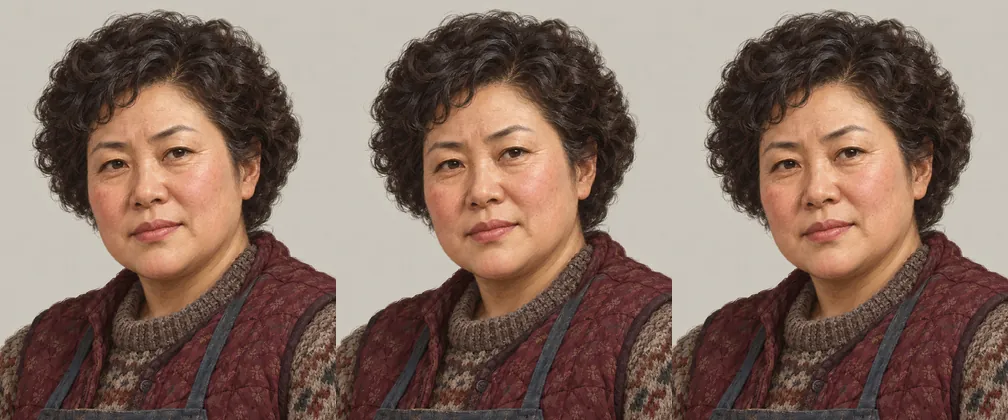
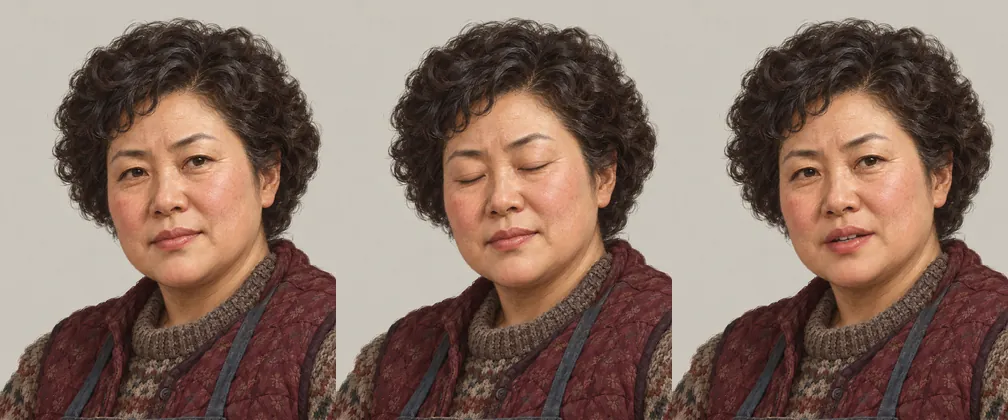
Faces blink and talk in CASE 11; 함 사장 shakes and breaks, and 길·진·우 flinch when their stories crack

diff --git a/img/manifest.js b/img/manifest.js
@@ -275,13 +275,13 @@ window.MG.images = {
   "c11/cut_c": "img/c11/cut_c.webp?v=9cd82dd0",
   "c11/cut_d": "img/c11/cut_d.webp?v=b538435c",
   "c11/cut_ev": "img/c11/cut_ev.webp?v=e7bea03c",
-  "c11/face_p_gil": "img/c11/face_p_gil.webp?v=cbc3d7d0",
-  "c11/face_p_ham": "img/c11/face_p_ham.webp?v=8a54c4f7",
-  "c11/face_p_han": "img/c11/face_p_han.webp?v=9d681268",
-  "c11/face_p_jin": "img/c11/face_p_jin.webp?v=d8745fca",
-  "c11/face_p_park": "img/c11/face_p_park.webp?v=9ec72b1c",
-  "c11/face_p_woo": "img/c11/face_p_woo.webp?v=a05cef5d",
-  "c11/face_p_yeom": "img/c11/face_p_yeom.webp?v=88c17fb9",
+  "c11/face_p_gil": "img/c11/face_p_gil.webp?v=52f35e7f",
+  "c11/face_p_ham": "img/c11/face_p_ham.webp?v=d1ad478d",
+  "c11/face_p_han": "img/c11/face_p_han.webp?v=38f89306",
+  "c11/face_p_jin": "img/c11/face_p_jin.webp?v=237d5111",
+  "c11/face_p_park": "img/c11/face_p_park.webp?v=3520f658",
+  "c11/face_p_woo": "img/c11/face_p_woo.webp?v=d527ca81",
+  "c11/face_p_yeom": "img/c11/face_p_yeom.webp?v=02814244",
   "c11/gauge": "img/c11/gauge.webp?v=9bf24e9f",
   "c11/items_table": "img/c11/items_table.webp?v=99c16e4b",
   "c11/knot_ev": "img/c11/knot_ev.webp?v=69b5fa66",
@@ -356,7 +356,7 @@ window.MG.images = {
   "c14/cover": "img/c14/cover.webp?v=6d424663",
   "c14/cover_bg": "img/c14/cover_bg.webp?v=7ef5560e",
   "c14/cover_s": "img/c14/cover_s.webp?v=adbea913",
-  "c14/face_p_changhoon": "img/c14/face_p_changhoon.webp?v=b11d9d3d",
+  "c14/face_p_changhoon": "img/c14/face_p_changhoon.webp?v=80153c07",
   "c14/face_p_eunju": "img/c14/face_p_eunju.webp?v=8a9e5cef",
   "c14/face_p_jeongrye": "img/c14/face_p_jeongrye.webp?v=4e78726f",
   "c14/face_p_oksun": "img/c14/face_p_oksun.webp?v=0ac960ae",
@@ -418,4 +418,4 @@ window.MG.images = {
   "_global/paper": "img/_global/paper.webp?v=da0f1de2",
   "_global/warn": "img/_global/warn.webp?v=1bc88cad"
 };
-window.MG.imageSize = {"c00/award":[1280,854],"c00/booth":[1280,960],"c00/bridge":[1280,960],"c00/cake":[1280,854],"c00/cat":[1280,960],"c00/cover":[1280,960],"c00/cover_bg":[640,480],"c00/cover_s":[260,196],"c00/cup":[1280,854],"c00/desk":[1280,960],"c00/doorbag":[1280,960],"c00/face_p_dohyun":[1008,420],"c00/face_p_jaehee":[1008,1260],"c00/face_p_manager":[1008,420],"c00/face_p_minji":[1008,420],"c00/face_p_neighbor":[1008,420],"c00/psd_preview":[1200,840],"c00/sketch":[1280,854],"c01/b_register":[1280,854],"c01/cover":[1280,960],"c01/cover_bg":[640,480],"c01/cover_s":[260,196],"c01/face_p_bill":[1008,840],"c01/face_p_croft":[1008,1260],"c01/face_p_dill":[1008,420],"c01/face_p_hannah":[1008,420],"c01/face_p_peggy":[1008,420],"c01/face_p_quarrell":[1008,420],"c01/face_p_vane":[1008,840],"c01/l_letter":[1280,960],"c01/l_postcard":[1280,960],"c01/l_slip":[1280,854],"c01/map":[1280,1170],"c01/patrollog":[1280,960],"c01/q_lamp":[1280,854],"c01/q_thread":[1280,1072],"c01/roseletter":[1280,962],"c01/s_candle":[1280,854],"c01/s_court":[1280,854],"c01/s_fundbox":[1280,854],"c01/s_patrol":[1280,854],"c01/s_sailor":[1280,854],"c01/s_tanners":[1280,854],"c02/attic":[1280,854],"c02/autopsy_table":[1280,960],"c02/barn_floor":[1280,960],"c02/calendar":[1280,1170],"c02/cover":[1280,854],"c02/cover_bg":[640,428],"c02/cover_s":[260,174],"c02/face_p_gerstl":[1008,420],"c02/face_p_hubmann":[1008,420],"c02/face_p_knauer":[1008,1260],"c02/face_p_magdalena":[1008,420],"c02/face_p_pfaenzl":[1008,840],"c02/face_p_resl":[1008,420],"c02/face_p_rottmayr":[1008,420],"c02/farm":[1280,854],"c02/hausbuch":[1280,854],"c02/hut":[1280,854],"c02/kasten":[1280,1170],"c02/kitchen":[1128,854],"c02/lock":[1280,1072],"c02/mailbox":[1280,854],"c02/plan":[1280,854],"c02/sk_kitchen":[1280,854],"c02/sk_stall":[1280,854],"c02/sledge":[1280,406],"c02/stall":[1280,854],"c02/suitcase":[1280,960],"c03/b_cafe":[1280,854],"c03/b_sewing":[1280,854],"c03/cover":[1280,1066],"c03/cover_bg":[640,534],"c03/cover_s":[260,216],"c03/face_p_baek":[1008,420],"c03/face_p_choi":[1008,420],"c03/face_p_gil":[1008,420],"c03/face_p_kwak":[1008,420],"c03/face_p_park":[1008,420],"c03/face_p_seo":[1008,1260],"c03/map":[1222,1288],"c03/n_boheol":[1280,1072],"c03/n_jodk":[1280,854],"c03/n_singer":[1280,1072],"c03/p_radio":[1280,960],"c03/p_safe":[1280,1170],"c03/p_shop":[1280,854],"c03/p_well":[1280,854],"c04/bike":[1280,854],"c04/bikephoto":[1280,800],"c04/boxes":[1280,960],"c04/coat":[1280,962],"c04/cover":[1280,854],"c04/cover_bg":[640,428],"c04/cover_s":[260,174],"c04/face_p_genzo":[1008,420],"c04/face_p_irie":[1008,1260],"c04/face_p_kitamura":[1008,840],"c04/face_p_okabe":[1008,840],"c04/face_p_ono":[1008,420],"c04/face_p_shimada":[1008,420],"c04/flare":[1280,960],"c04/kurotaki":[1280,854],"c04/l3_back":[1280,960],"c04/letter":[1280,854],"c04/map":[1280,854],"c04/matchbox":[1280,960],"c04/montage":[1030,1182],"c04/scene":[1280,720],"c04/siteboard":[1280,960],"c04/wind":[1280,960],"c05/cedar":[1280,720],"c05/cedar_car":[1280,960],"c05/cipherimg":[1280,960],"c05/cover":[1280,960],"c05/cover_bg":[640,480],"c05/cover_s":[260,196],"c05/depot":[1280,720],"c05/env_four":[1280,854],"c05/env_ref":[1280,854],"c05/env_sheriff":[1280,720],"c05/env_star":[1280,854],"c05/env_typed":[1280,854],"c05/face_p_brennan":[1008,1260],"c05/face_p_coyle":[1008,420],"c05/face_p_delgado":[1008,420],"c05/face_p_dugan":[1008,420],"c05/face_p_lowell":[1008,420],"c05/face_p_osgood":[1008,420],"c05/face_p_pell":[1008,840],"c05/letter1":[1280,854],"c05/lighthouse":[1280,720],"c05/masonhill":[1280,720],"c05/mh_car":[1280,960],"c05/payphone":[1086,1448],"c05/sketch":[1086,1448],"c05/truck":[1280,720],"c05/typed":[1280,960],"c06/autopsy_sheet":[1280,958],"c06/autopsy_sheet_mild":[1280,958],"c06/bags_table":[1280,854],"c06/cover":[1280,854],"c06/cover_bg":[640,428],"c06/cover_s":[260,174],"c06/face_p_brate":[1008,1260],"c06/face_p_kari":[1008,420],"c06/face_p_per":[1008,420],"c06/face_p_randi":[1008,420],"c06/face_p_remmert":[1008,840],"c06/face_p_solveig":[1008,420],"c06/face_p_taxi":[1008,420],"c06/fuel":[1280,854],"c06/harbor":[1280,854],"c06/hytte":[1280,854],"c06/regcard":[1280,960],"c06/scene_hollow":[1280,960],"c06/scene_hollow_mild":[1280,960],"c06/ship":[1280,854],"c06/station":[1280,854],"c06/stern":[1280,854],"c06/suitcases":[1280,498],"c06/thermos":[1280,854],"c06/touristmap":[1280,960],"c06/valley":[1280,960],"c07/cover":[1280,854],"c07/cover_bg":[640,428],"c07/cover_s":[260,174],"c07/face_p_granny":[1008,420],"c07/face_p_madam":[1008,420],"c07/face_p_mansik":[1008,840],"c07/face_p_no":[1008,840],"c07/face_p_operator":[1008,420],"c07/face_p_seok":[1008,1260],"c07/face_p_wife":[1008,840],"c07/handbag":[1280,960],"c07/house":[1280,960],"c07/ledger_page":[1280,960],"c07/news_car":[1280,854],"c07/photo_car":[1280,960],"c07/photo_seat":[1280,854],"c07/scene_map":[1280,854],"c07/seokcar":[1280,854],"c07/shop":[1280,854],"c07/songwol_gate":[1280,854],"c07/switchboard":[1280,960],"c07/tv":[1254,1254],"c08/booth":[1280,854],"c08/church":[1086,1448],"c08/cover":[1280,854],"c08/cover_bg":[640,428],"c08/cover_s":[260,174],"c08/face_p_driver":[1008,420],"c08/face_p_father":[1008,420],"c08/face_p_foreman":[1008,840],"c08/face_p_mother":[1008,420],"c08/face_p_shop":[1008,420],"c08/face_p_tak":[1008,1260],"c08/face_p_tutor":[1008,840],"c08/flyer":[1280,854],"c08/keys":[1280,960],"c08/map":[1280,854],"c08/montage":[1086,1448],"c08/montage_print":[1086,1448],"c08/news_site":[1280,960],"c08/note_paper":[1280,854],"c08/rail":[1280,854],"c08/ransom_bag":[1280,854],"c08/sg_call":[1200,576],"c08/sg_han":[1200,576],"c08/sg_jang":[1200,576],"c08/sg_tak":[1200,576],"c08/sg_yeom":[1200,576],"c08/shop_ledger":[1280,960],"c08/solmaru":[1280,960],"c08/warehouse":[1280,960],"c09/busstop":[1280,854],"c09/cctv":[1056,720],"c09/courier_room":[1280,854],"c09/cover":[1280,960],"c09/cover_bg":[640,480],"c09/cover_s":[260,196],"c09/door":[1280,960],"c09/face_p_courier":[1008,840],"c09/face_p_eunbi":[1008,420],"c09/face_p_jinwoo":[1008,420],"c09/face_p_realtor":[1008,420],"c09/face_p_sora":[1008,420],"c09/face_p_tak":[1008,1260],"c09/frames":[1280,960],"c09/haeun_photo":[1280,854],"c09/house204":[1280,960],"c09/house217":[1280,960],"c09/house219":[1280,854],"c09/house226":[1280,854],"c09/house230":[1280,960],"c09/map":[1280,854],"c09/mt_photo":[1280,854],"c09/ph217":[1280,960],"c09/ph219":[1280,960],"c09/pyogu":[1280,960],"c09/roof":[1280,854],"c09/sora_photo":[1280,960],"c10/cam_a":[1280,854],"c10/cam_b":[1280,720],"c10/cam_pier":[1280,960],"c10/cam_store":[1280,960],"c10/cam_taxi":[1280,720],"c10/cap":[1280,960],"c10/cover":[1280,854],"c10/cover_bg":[640,428],"c10/cover_s":[260,174],"c10/crates":[1280,960],"c10/face_p_bang":[1008,1260],"c10/face_p_guard":[1008,420],"c10/face_p_miran":[1008,420],"c10/face_p_myeongsu":[1008,840],"c10/face_p_okja":[1008,420],"c10/face_p_sangmin":[1008,420],"c10/hoesik":[1280,960],"c10/pier_day":[1280,960],"c11/autopsy_room":[1280,854],"c11/bus":[1280,854],"c11/butcher_floor":[1280,854],"c11/butcher_lumi":[1280,854],"c11/cover":[1280,960],"c11/cover_bg":[640,480],"c11/cover_s":[260,196],"c11/cut_a":[1280,854],"c11/cut_b":[1280,854],"c11/cut_c":[1280,854],"c11/cut_d":[1280,854],"c11/cut_ev":[1280,854],"c11/face_p_gil":[1008,420],"c11/face_p_ham":[1008,420],"c11/face_p_han":[1008,420],"c11/face_p_jin":[1008,420],"c11/face_p_park":[1008,420],"c11/face_p_woo":[1008,840],"c11/face_p_yeom":[1008,420],"c11/gauge":[1280,854],"c11/items_table":[1280,854],"c11/knot_ev":[1280,960],"c11/ledger_page":[1280,854],"c11/news_bridge":[1280,854],"c11/news_divers":[1280,960],"c11/news_reeds":[1280,854],"c11/news_shop":[1280,854],"c11/news_workshop":[1280,854],"c11/nfs_nacre":[1280,960],"c11/occ_reeds":[1280,854],"c11/photo_sack":[1280,960],"c11/ph_lumi":[1280,854],"c11/ph_match":[1280,854],"c11/ph_print":[1280,854],"c11/workshop_floor":[1280,854],"c12/bagsample":[1280,854],"c12/boiler":[1280,960],"c12/butcher":[1280,854],"c12/cleancart":[1280,1024],"c12/cover":[1280,854],"c12/cover_bg":[640,428],"c12/cover_s":[260,174],"c12/dengon":[1280,854],"c12/face_p_ishiguro":[1008,420],"c12/face_p_kimura":[1008,420],"c12/face_p_murakoshi":[1008,840],"c12/face_p_ogawa":[1008,420],"c12/face_p_paperboy":[1008,420],"c12/face_p_shinji":[1008,1260],"c12/face_p_takano":[1008,420],"c12/face_p_toshie":[1008,420],"c12/jiage":[1280,960],"c12/knot_bag":[1280,960],"c12/luminol":[1280,960],"c12/n_park":[1280,854],"c12/pinkphone":[1024,1536],"c12/room":[1095,1072],"c12/saw_cast":[1280,960],"c12/scene_bin":[1280,854],"c12/sento":[1024,1536],"c12/sk_east":[1280,854],"c12/sk_lum":[1280,854],"c12/sk_sento":[1280,854],"c12/store":[1280,854],"c12/trap":[1280,854],"c12/videocard":[1280,854],"c12/wp":[1280,960],"c13/alley_day":[1280,960],"c13/bread":[1280,960],"c13/cctv_drop":[1280,720],"c13/cctv_pick":[1280,720],"c13/counter":[1280,854],"c13/cover":[1280,960],"c13/cover_bg":[640,480],"c13/cover_s":[260,196],"c13/door":[1280,960],"c13/drop":[1280,960],"c13/face_p_choi":[1008,420],"c13/face_p_jihan":[1008,840],"c13/face_p_kim":[1008,420],"c13/face_p_oh":[1008,1260],"c13/face_p_woojin":[1008,840],"c13/kick":[1280,960],"c13/locker":[1280,960],"c13/room":[1280,854],"c13/store":[1280,960],"c13/tablet":[1280,960],"c14/atm":[888,960],"c14/bankbook":[1280,960],"c14/calendar":[1280,960],"c14/cover":[1280,960],"c14/cover_bg":[640,480],"c14/cover_s":[260,196],"c14/face_p_changhoon":[1008,420],"c14/face_p_eunju":[1008,420],"c14/face_p_jeongrye":[1008,420],"c14/face_p_oksun":[1008,420],"c14/face_p_seok":[1008,1260],"c14/face_p_siwoo":[1008,840],"c14/face_p_taeo":[1008,840],"c14/fakedoc":[1280,960],"c14/lock":[1280,960],"c14/market":[1280,960],"c14/oksun":[1280,960],"c14/park":[1280,720],"c14/scooter":[1280,960],"c14/sk_door":[1280,854],"c14/sk_locker":[1280,854],"c14/stakeout":[1280,720],"c15/carlot":[1280,854],"c15/carwash":[1280,720],"c15/cctv_lane":[1280,960],"c15/cover":[1280,960],"c15/cover_bg":[640,480],"c15/cover_s":[260,196],"c15/elev_cam":[1280,960],"c15/face_p_harin":[1008,420],"c15/face_p_jisu":[1008,420],"c15/face_p_junhyuk":[1008,840],"c15/face_p_landlord":[1008,840],"c15/face_p_minjae":[1008,1260],"c15/face_p_woobin":[1008,840],"c15/futsal":[1280,960],"c15/helmet_cam":[1280,720],"c15/libnote":[1280,960],"c15/note_photo":[1280,960],"c15/plate_photo":[1280,960],"c15/shoes":[1280,960],"c15/tracker_photo":[1280,960],"c15/watch_found":[1280,960],"_desk/ashtray":[600,594],"_desk/cassette":[600,400],"_desk/clips":[600,616],"_desk/energy":[600,600],"_desk/evidencebag":[600,900],"_desk/flipphone":[600,970],"_desk/glasses":[600,208],"_desk/inkpen":[600,588],"_desk/lanyard":[600,600],"_desk/magnifier":[600,602],"_desk/matchbox":[600,552],"_desk/mug":[600,488],"_desk/pager":[600,560],"_desk/pencil":[600,70],"_desk/pocketwatch":[600,588],"_desk/radio":[600,900],"_desk/smartphone":[600,1096],"_desk/stamp":[600,548],"_desk/takeaway":[600,706],"_desk/teacup":[600,602],"_global/desk":[1024,1024],"_global/hero":[1672,942],"_global/paper":[1024,1024],"_global/warn":[600,200]};
+window.MG.imageSize = {"c00/award":[1280,854],"c00/booth":[1280,960],"c00/bridge":[1280,960],"c00/cake":[1280,854],"c00/cat":[1280,960],"c00/cover":[1280,960],"c00/cover_bg":[640,480],"c00/cover_s":[260,196],"c00/cup":[1280,854],"c00/desk":[1280,960],"c00/doorbag":[1280,960],"c00/face_p_dohyun":[1008,420],"c00/face_p_jaehee":[1008,1260],"c00/face_p_manager":[1008,420],"c00/face_p_minji":[1008,420],"c00/face_p_neighbor":[1008,420],"c00/psd_preview":[1200,840],"c00/sketch":[1280,854],"c01/b_register":[1280,854],"c01/cover":[1280,960],"c01/cover_bg":[640,480],"c01/cover_s":[260,196],"c01/face_p_bill":[1008,840],"c01/face_p_croft":[1008,1260],"c01/face_p_dill":[1008,420],"c01/face_p_hannah":[1008,420],"c01/face_p_peggy":[1008,420],"c01/face_p_quarrell":[1008,420],"c01/face_p_vane":[1008,840],"c01/l_letter":[1280,960],"c01/l_postcard":[1280,960],"c01/l_slip":[1280,854],"c01/map":[1280,1170],"c01/patrollog":[1280,960],"c01/q_lamp":[1280,854],"c01/q_thread":[1280,1072],"c01/roseletter":[1280,962],"c01/s_candle":[1280,854],"c01/s_court":[1280,854],"c01/s_fundbox":[1280,854],"c01/s_patrol":[1280,854],"c01/s_sailor":[1280,854],"c01/s_tanners":[1280,854],"c02/attic":[1280,854],"c02/autopsy_table":[1280,960],"c02/barn_floor":[1280,960],"c02/calendar":[1280,1170],"c02/cover":[1280,854],"c02/cover_bg":[640,428],"c02/cover_s":[260,174],"c02/face_p_gerstl":[1008,420],"c02/face_p_hubmann":[1008,420],"c02/face_p_knauer":[1008,1260],"c02/face_p_magdalena":[1008,420],"c02/face_p_pfaenzl":[1008,840],"c02/face_p_resl":[1008,420],"c02/face_p_rottmayr":[1008,420],"c02/farm":[1280,854],"c02/hausbuch":[1280,854],"c02/hut":[1280,854],"c02/kasten":[1280,1170],"c02/kitchen":[1128,854],"c02/lock":[1280,1072],"c02/mailbox":[1280,854],"c02/plan":[1280,854],"c02/sk_kitchen":[1280,854],"c02/sk_stall":[1280,854],"c02/sledge":[1280,406],"c02/stall":[1280,854],"c02/suitcase":[1280,960],"c03/b_cafe":[1280,854],"c03/b_sewing":[1280,854],"c03/cover":[1280,1066],"c03/cover_bg":[640,534],"c03/cover_s":[260,216],"c03/face_p_baek":[1008,420],"c03/face_p_choi":[1008,420],"c03/face_p_gil":[1008,420],"c03/face_p_kwak":[1008,420],"c03/face_p_park":[1008,420],"c03/face_p_seo":[1008,1260],"c03/map":[1222,1288],"c03/n_boheol":[1280,1072],"c03/n_jodk":[1280,854],"c03/n_singer":[1280,1072],"c03/p_radio":[1280,960],"c03/p_safe":[1280,1170],"c03/p_shop":[1280,854],"c03/p_well":[1280,854],"c04/bike":[1280,854],"c04/bikephoto":[1280,800],"c04/boxes":[1280,960],"c04/coat":[1280,962],"c04/cover":[1280,854],"c04/cover_bg":[640,428],"c04/cover_s":[260,174],"c04/face_p_genzo":[1008,420],"c04/face_p_irie":[1008,1260],"c04/face_p_kitamura":[1008,840],"c04/face_p_okabe":[1008,840],"c04/face_p_ono":[1008,420],"c04/face_p_shimada":[1008,420],"c04/flare":[1280,960],"c04/kurotaki":[1280,854],"c04/l3_back":[1280,960],"c04/letter":[1280,854],"c04/map":[1280,854],"c04/matchbox":[1280,960],"c04/montage":[1030,1182],"c04/scene":[1280,720],"c04/siteboard":[1280,960],"c04/wind":[1280,960],"c05/cedar":[1280,720],"c05/cedar_car":[1280,960],"c05/cipherimg":[1280,960],"c05/cover":[1280,960],"c05/cover_bg":[640,480],"c05/cover_s":[260,196],"c05/depot":[1280,720],"c05/env_four":[1280,854],"c05/env_ref":[1280,854],"c05/env_sheriff":[1280,720],"c05/env_star":[1280,854],"c05/env_typed":[1280,854],"c05/face_p_brennan":[1008,1260],"c05/face_p_coyle":[1008,420],"c05/face_p_delgado":[1008,420],"c05/face_p_dugan":[1008,420],"c05/face_p_lowell":[1008,420],"c05/face_p_osgood":[1008,420],"c05/face_p_pell":[1008,840],"c05/letter1":[1280,854],"c05/lighthouse":[1280,720],"c05/masonhill":[1280,720],"c05/mh_car":[1280,960],"c05/payphone":[1086,1448],"c05/sketch":[1086,1448],"c05/truck":[1280,720],"c05/typed":[1280,960],"c06/autopsy_sheet":[1280,958],"c06/autopsy_sheet_mild":[1280,958],"c06/bags_table":[1280,854],"c06/cover":[1280,854],"c06/cover_bg":[640,428],"c06/cover_s":[260,174],"c06/face_p_brate":[1008,1260],"c06/face_p_kari":[1008,420],"c06/face_p_per":[1008,420],"c06/face_p_randi":[1008,420],"c06/face_p_remmert":[1008,840],"c06/face_p_solveig":[1008,420],"c06/face_p_taxi":[1008,420],"c06/fuel":[1280,854],"c06/harbor":[1280,854],"c06/hytte":[1280,854],"c06/regcard":[1280,960],"c06/scene_hollow":[1280,960],"c06/scene_hollow_mild":[1280,960],"c06/ship":[1280,854],"c06/station":[1280,854],"c06/stern":[1280,854],"c06/suitcases":[1280,498],"c06/thermos":[1280,854],"c06/touristmap":[1280,960],"c06/valley":[1280,960],"c07/cover":[1280,854],"c07/cover_bg":[640,428],"c07/cover_s":[260,174],"c07/face_p_granny":[1008,420],"c07/face_p_madam":[1008,420],"c07/face_p_mansik":[1008,840],"c07/face_p_no":[1008,840],"c07/face_p_operator":[1008,420],"c07/face_p_seok":[1008,1260],"c07/face_p_wife":[1008,840],"c07/handbag":[1280,960],"c07/house":[1280,960],"c07/ledger_page":[1280,960],"c07/news_car":[1280,854],"c07/photo_car":[1280,960],"c07/photo_seat":[1280,854],"c07/scene_map":[1280,854],"c07/seokcar":[1280,854],"c07/shop":[1280,854],"c07/songwol_gate":[1280,854],"c07/switchboard":[1280,960],"c07/tv":[1254,1254],"c08/booth":[1280,854],"c08/church":[1086,1448],"c08/cover":[1280,854],"c08/cover_bg":[640,428],"c08/cover_s":[260,174],"c08/face_p_driver":[1008,420],"c08/face_p_father":[1008,420],"c08/face_p_foreman":[1008,840],"c08/face_p_mother":[1008,420],"c08/face_p_shop":[1008,420],"c08/face_p_tak":[1008,1260],"c08/face_p_tutor":[1008,840],"c08/flyer":[1280,854],"c08/keys":[1280,960],"c08/map":[1280,854],"c08/montage":[1086,1448],"c08/montage_print":[1086,1448],"c08/news_site":[1280,960],"c08/note_paper":[1280,854],"c08/rail":[1280,854],"c08/ransom_bag":[1280,854],"c08/sg_call":[1200,576],"c08/sg_han":[1200,576],"c08/sg_jang":[1200,576],"c08/sg_tak":[1200,576],"c08/sg_yeom":[1200,576],"c08/shop_ledger":[1280,960],"c08/solmaru":[1280,960],"c08/warehouse":[1280,960],"c09/busstop":[1280,854],"c09/cctv":[1056,720],"c09/courier_room":[1280,854],"c09/cover":[1280,960],"c09/cover_bg":[640,480],"c09/cover_s":[260,196],"c09/door":[1280,960],"c09/face_p_courier":[1008,840],"c09/face_p_eunbi":[1008,420],"c09/face_p_jinwoo":[1008,420],"c09/face_p_realtor":[1008,420],"c09/face_p_sora":[1008,420],"c09/face_p_tak":[1008,1260],"c09/frames":[1280,960],"c09/haeun_photo":[1280,854],"c09/house204":[1280,960],"c09/house217":[1280,960],"c09/house219":[1280,854],"c09/house226":[1280,854],"c09/house230":[1280,960],"c09/map":[1280,854],"c09/mt_photo":[1280,854],"c09/ph217":[1280,960],"c09/ph219":[1280,960],"c09/pyogu":[1280,960],"c09/roof":[1280,854],"c09/sora_photo":[1280,960],"c10/cam_a":[1280,854],"c10/cam_b":[1280,720],"c10/cam_pier":[1280,960],"c10/cam_store":[1280,960],"c10/cam_taxi":[1280,720],"c10/cap":[1280,960],"c10/cover":[1280,854],"c10/cover_bg":[640,428],"c10/cover_s":[260,174],"c10/crates":[1280,960],"c10/face_p_bang":[1008,1260],"c10/face_p_guard":[1008,420],"c10/face_p_miran":[1008,420],"c10/face_p_myeongsu":[1008,840],"c10/face_p_okja":[1008,420],"c10/face_p_sangmin":[1008,420],"c10/hoesik":[1280,960],"c10/pier_day":[1280,960],"c11/autopsy_room":[1280,854],"c11/bus":[1280,854],"c11/butcher_floor":[1280,854],"c11/butcher_lumi":[1280,854],"c11/cover":[1280,960],"c11/cover_bg":[640,480],"c11/cover_s":[260,196],"c11/cut_a":[1280,854],"c11/cut_b":[1280,854],"c11/cut_c":[1280,854],"c11/cut_d":[1280,854],"c11/cut_ev":[1280,854],"c11/face_p_gil":[1008,840],"c11/face_p_ham":[1008,1260],"c11/face_p_han":[1008,420],"c11/face_p_jin":[1008,840],"c11/face_p_park":[1008,420],"c11/face_p_woo":[1008,840],"c11/face_p_yeom":[1008,420],"c11/gauge":[1280,854],"c11/items_table":[1280,854],"c11/knot_ev":[1280,960],"c11/ledger_page":[1280,854],"c11/news_bridge":[1280,854],"c11/news_divers":[1280,960],"c11/news_reeds":[1280,854],"c11/news_shop":[1280,854],"c11/news_workshop":[1280,854],"c11/nfs_nacre":[1280,960],"c11/occ_reeds":[1280,854],"c11/photo_sack":[1280,960],"c11/ph_lumi":[1280,854],"c11/ph_match":[1280,854],"c11/ph_print":[1280,854],"c11/workshop_floor":[1280,854],"c12/bagsample":[1280,854],"c12/boiler":[1280,960],"c12/butcher":[1280,854],"c12/cleancart":[1280,1024],"c12/cover":[1280,854],"c12/cover_bg":[640,428],"c12/cover_s":[260,174],"c12/dengon":[1280,854],"c12/face_p_ishiguro":[1008,420],"c12/face_p_kimura":[1008,420],"c12/face_p_murakoshi":[1008,840],"c12/face_p_ogawa":[1008,420],"c12/face_p_paperboy":[1008,420],"c12/face_p_shinji":[1008,1260],"c12/face_p_takano":[1008,420],"c12/face_p_toshie":[1008,420],"c12/jiage":[1280,960],"c12/knot_bag":[1280,960],"c12/luminol":[1280,960],"c12/n_park":[1280,854],"c12/pinkphone":[1024,1536],"c12/room":[1095,1072],"c12/saw_cast":[1280,960],"c12/scene_bin":[1280,854],"c12/sento":[1024,1536],"c12/sk_east":[1280,854],"c12/sk_lum":[1280,854],"c12/sk_sento":[1280,854],"c12/store":[1280,854],"c12/trap":[1280,854],"c12/videocard":[1280,854],"c12/wp":[1280,960],"c13/alley_day":[1280,960],"c13/bread":[1280,960],"c13/cctv_drop":[1280,720],"c13/cctv_pick":[1280,720],"c13/counter":[1280,854],"c13/cover":[1280,960],"c13/cover_bg":[640,480],"c13/cover_s":[260,196],"c13/door":[1280,960],"c13/drop":[1280,960],"c13/face_p_choi":[1008,420],"c13/face_p_jihan":[1008,840],"c13/face_p_kim":[1008,420],"c13/face_p_oh":[1008,1260],"c13/face_p_woojin":[1008,840],"c13/kick":[1280,960],"c13/locker":[1280,960],"c13/room":[1280,854],"c13/store":[1280,960],"c13/tablet":[1280,960],"c14/atm":[888,960],"c14/bankbook":[1280,960],"c14/calendar":[1280,960],"c14/cover":[1280,960],"c14/cover_bg":[640,480],"c14/cover_s":[260,196],"c14/face_p_changhoon":[1008,420],"c14/face_p_eunju":[1008,420],"c14/face_p_jeongrye":[1008,420],"c14/face_p_oksun":[1008,420],"c14/face_p_seok":[1008,1260],"c14/face_p_siwoo":[1008,840],"c14/face_p_taeo":[1008,840],"c14/fakedoc":[1280,960],"c14/lock":[1280,960],"c14/market":[1280,960],"c14/oksun":[1280,960],"c14/park":[1280,720],"c14/scooter":[1280,960],"c14/sk_door":[1280,854],"c14/sk_locker":[1280,854],"c14/stakeout":[1280,720],"c15/carlot":[1280,854],"c15/carwash":[1280,720],"c15/cctv_lane":[1280,960],"c15/cover":[1280,960],"c15/cover_bg":[640,480],"c15/cover_s":[260,196],"c15/elev_cam":[1280,960],"c15/face_p_harin":[1008,420],"c15/face_p_jisu":[1008,420],"c15/face_p_junhyuk":[1008,840],"c15/face_p_landlord":[1008,840],"c15/face_p_minjae":[1008,1260],"c15/face_p_woobin":[1008,840],"c15/futsal":[1280,960],"c15/helmet_cam":[1280,720],"c15/libnote":[1280,960],"c15/note_photo":[1280,960],"c15/plate_photo":[1280,960],"c15/shoes":[1280,960],"c15/tracker_photo":[1280,960],"c15/watch_found":[1280,960],"_desk/ashtray":[600,594],"_desk/cassette":[600,400],"_desk/clips":[600,616],"_desk/energy":[600,600],"_desk/evidencebag":[600,900],"_desk/flipphone":[600,970],"_desk/glasses":[600,208],"_desk/inkpen":[600,588],"_desk/lanyard":[600,600],"_desk/magnifier":[600,602],"_desk/matchbox":[600,552],"_desk/mug":[600,488],"_desk/pager":[600,560],"_desk/pencil":[600,70],"_desk/pocketwatch":[600,588],"_desk/radio":[600,900],"_desk/smartphone":[600,1096],"_desk/stamp":[600,548],"_desk/takeaway":[600,706],"_desk/teacup":[600,602],"_global/desk":[1024,1024],"_global/hero":[1672,942],"_global/paper":[1024,1024],"_global/warn":[600,200]};
